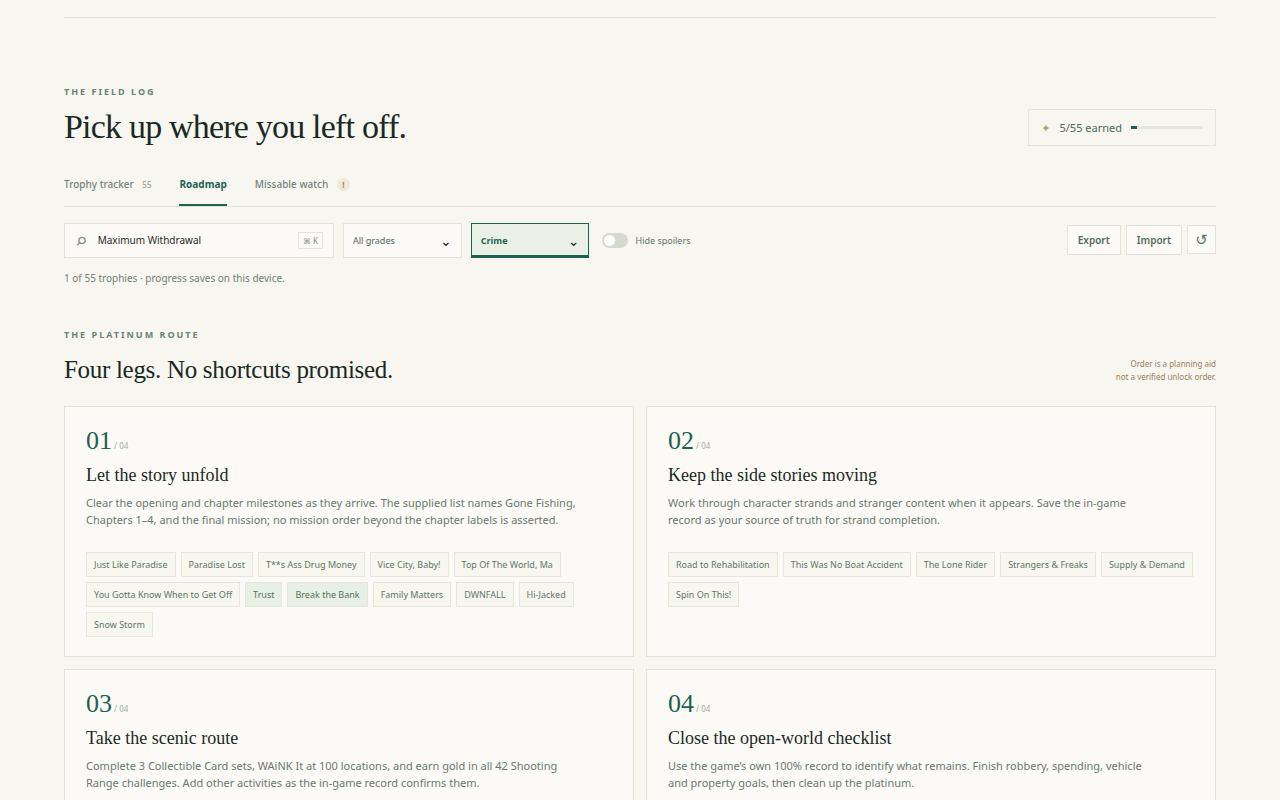
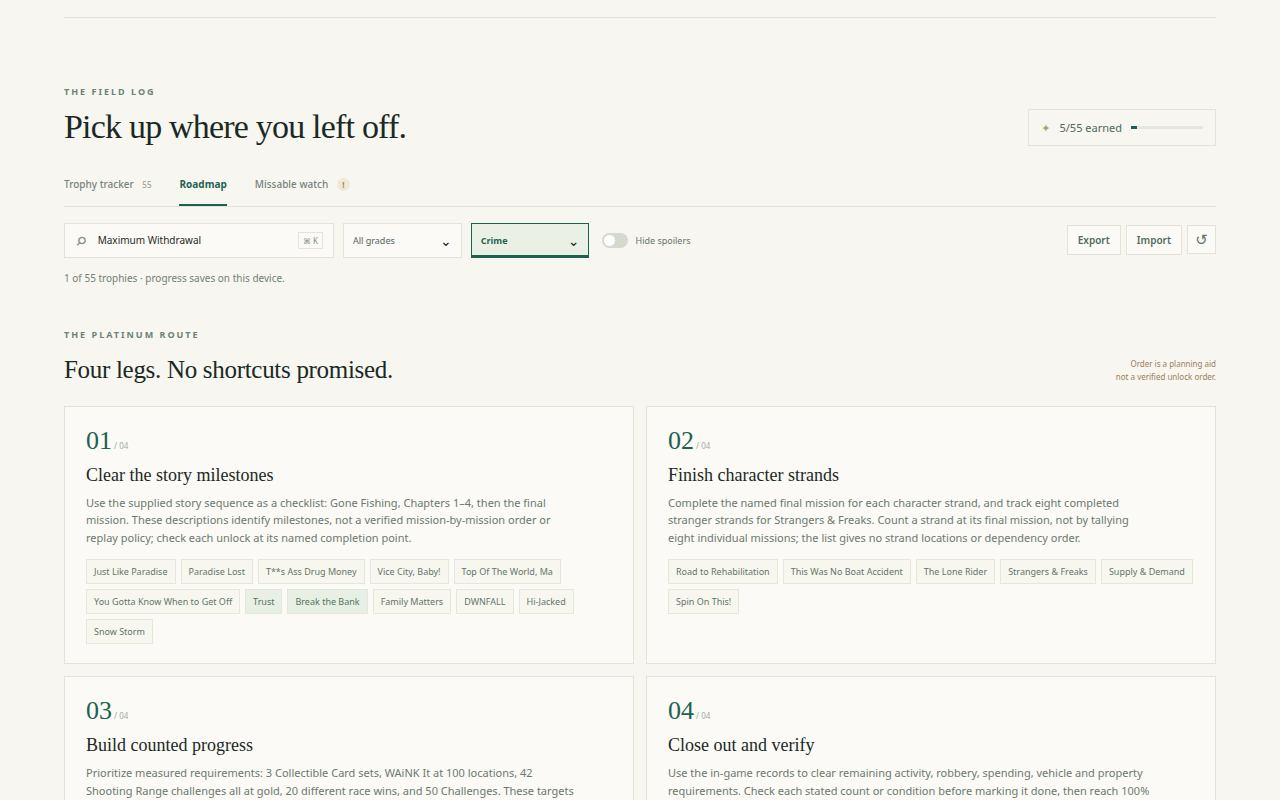
feat: strengthen round 4 trophy guidance

diff --git a/app/app.js b/app/app.js
@@ -59,7 +59,7 @@ function renderDetail() {
   if (!selected) return;
   const hidden = isConcealed(selected);
   const display = displayName(selected);
-  const sourceNames = selected.sources.map(source => source.name).join(' · ');
+  const sourceNames = selected.sources.map(source => `${source.name} — ${source.role}`).join(' · ');
   panel.innerHTML = `
     <div class="detail-top"><span class="detail-kicker">FIELD NOTE <b>NO. ${String(selected.id).padStart(2, '0')}</b></span><span class="grade-pill ${selected.grade}"><i>✦</i> ${gradeLabel(selected.grade)}</span></div>
     <h3>${escapeHtml(display)}</h3>
@@ -103,12 +103,12 @@ function toggleEarned(name) {
 
 function renderRoadmap() {
   const stages = [
-    { n: '01', title: 'Let the story unfold', text: 'Clear the opening and chapter milestones as they arrive. The supplied list names Gone Fishing, Chapters 1–4, and the final mission; no mission order beyond the chapter labels is asserted.', ids: [2,3,4,5,6,7,8,9,10,11,12,13] },
-    { n: '02', title: 'Keep the side stories moving', text: 'Work through character strands and stranger content when it appears. Save the in-game record as your source of truth for strand completion.', ids: [22,23,24,25,26,27] },
-    { n: '03', title: 'Take the scenic route', text: 'Complete 3 Collectible Card sets, WAiNK It at 100 locations, and earn gold in all 42 Shooting Range challenges. Add other activities as the in-game record confirms them.', ids: [15,16,17,18,19,20,21,28,29,30,31,32,35,42] },
-    { n: '04', title: 'Close the open-world checklist', text: 'Use the game’s own 100% record to identify what remains. Finish robbery, spending, vehicle and property goals, then clean up the platinum.', ids: [33,34,36,37,38,39,40,41,43,44,45,46,47,48,49,50,51,52,53,54,55,14,1] }
+    { n: '01', title: 'Clear the story milestones', text: 'Use the supplied story sequence as a checklist: Gone Fishing, Chapters 1–4, then the final mission. These descriptions identify milestones, not a verified mission-by-mission order or replay policy; check each unlock at its named completion point.', ids: [2,3,4,5,6,7,8,9,10,11,12,13] },
+    { n: '02', title: 'Finish character strands', text: 'Complete the named final mission for each character strand, and track eight completed stranger strands for Strangers & Freaks. Count a strand at its final mission, not by tallying eight individual missions; the list gives no strand locations or dependency order.', ids: [22,23,24,25,26,27] },
+    { n: '03', title: 'Build counted progress', text: 'Prioritize measured requirements: 3 Collectible Card sets, WAiNK It at 100 locations, 42 Shooting Range challenges all at gold, 20 different race wins, and 50 Challenges. These targets come from the supplied trophy descriptions/listed progress targets; locations, qualifying pools, and routes are not supplied.', ids: [15,16,17,18,19,20,21,28,29,30,31,32,35,42] },
+    { n: '04', title: 'Close out and verify', text: 'Use the in-game records to clear remaining activity, robbery, spending, vehicle and property requirements. Check each stated count or condition before marking it done, then reach 100% completion and use the remaining requirements for the platinum. This is a planning order, not a verified unlock sequence.', ids: [33,34,36,37,38,39,40,41,43,44,45,46,47,48,49,50,51,52,53,54,55,14,1] }
   ];
-  $('#roadmap-view').innerHTML = `<div class="roadmap-intro"><div><p class="eyebrow">THE PLATINUM ROUTE</p><h3>Four legs. No shortcuts promised.</h3></div><span class="roadmap-warning">Order is a planning aid<br>not a verified unlock order.</span></div><div class="stage-grid">${stages.map(stage => `<article class="stage-card"><div class="stage-number">${stage.n}<span> / 04</span></div><h4>${stage.title}</h4><p>${stage.text}</p><div class="stage-tags">${stage.ids.map(id => { const t = trophies.find(item => item.id === id); return `<button class="stage-tag ${earned.has(t.name) ? 'done' : ''}" data-jump="${id}">${escapeHtml(displayName(t))}</button>`; }).join('')}</div></article>`).join('')}</div><div class="roadmap-footer"><div class="roadmap-check"><strong>100% COMPLETION GOLD · A LONG ROAD</strong><span>Reach 100% completion; the supplied descriptions do not provide a complete category checklist.</span></div><div class="roadmap-check"><strong>FINAL PLATINUM CHECK · VICE GOT A PRICE!</strong><span>Use the remaining trophy requirements as the final checklist; no optimal unlock order is established.</span></div><button class="text-button" data-view="tracker">Back to tracker →</button></div>`;
+  $('#roadmap-view').innerHTML = `<div class="roadmap-intro"><div><p class="eyebrow">THE PLATINUM ROUTE</p><h3>Four legs. No shortcuts promised.</h3></div><span class="roadmap-warning">Order is a planning aid<br>not a verified unlock order.</span></div><div class="stage-grid">${stages.map(stage => `<article class="stage-card"><div class="stage-number">${stage.n}<span> / 04</span></div><h4>${stage.title}</h4><p>${stage.text}</p><div class="stage-tags">${stage.ids.map(id => { const t = trophies.find(item => item.id === id); return `<button class="stage-tag ${earned.has(t.name) ? 'done' : ''}" data-jump="${id}">${escapeHtml(displayName(t))}</button>`; }).join('')}</div></article>`).join('')}</div><div class="roadmap-footer"><div class="roadmap-check"><strong>100% COMPLETION GOLD · A LONG ROAD</strong><span>Reach 100% completion; Exophase and PSNProfiles provide the target description, but no category breakdown.</span></div><div class="roadmap-check"><strong>FINAL PLATINUM CHECK · VICE GOT A PRICE!</strong><span>Use the remaining trophy requirements as the final checklist; the supplied lists do not establish an optimal unlock order.</span></div><button class="text-button" data-view="tracker">Back to tracker →</button></div>`;
   $('#roadmap-view').querySelectorAll('[data-jump]').forEach(button => button.addEventListener('click', () => selectTrophy(Number(button.dataset.jump))));
   $('#roadmap-view').querySelector('[data-view="tracker"]').addEventListener('click', () => setView('tracker'));
 }

diff --git a/docs/superpowers/plans/2026-11-20-gta6-tracker-roadmap.md b/docs/superpowers/plans/2026-11-20-gta6-tracker-roadmap.md
@@ -66,6 +66,14 @@
 
 **Files:** all changes above
 
-- [x] Run `makefun check` and require 5 passed, 0 failed.
+- [ ] Run `makefun check` (not run: round rules prohibit it).
 - [x] Check 55 trophies, grades 1/2/6/46, 28 hidden, sources on 55/55, no `http`/`https` references in `app/`, and byte-identical dossier rebuild.
-- [x] Commit all changes in one commit authored as `makefun-agent` and report its hash and check result.
+- [ ] Commit all changes in one commit authored as `makefun-agent` and report its hash and check result.
+
+## Round 4 Evidence Update
+
+- Keep location-specific routes, eligible pools, character rosters, and mission dependencies unclaimed: the available Exophase/PSNProfiles entries establish trophy text, grades, and selected progress targets, not an independently sourced walkthrough.
+- Strengthen count- and condition-based guidance from the supplied list: 250 Stunts, 42 gold Shooting Range challenges, every Top Fun Drone Race location, 20 distinct race wins, 8 stranger strands, every meditation spot, 3 card sets, WAiNK It at 100 locations, 50 Challenges, the three-shop chain, 100 vehicle discoveries, five takedowns in one Combat Focus use, undetected jewelry-store robbery, five Bank Vault robberies with escapes, an Illegal Operation for each gang, $250,000 laundering, $100,000 shop spending, all garage properties, and 10 Scooter Bros registrations.
+- Keep every `missableStatus` `unverified`; separate a cautious Check prompt from Confirmed, which remains empty without evidence of a one-time window.
+- Show the listed source and its role beside the open guide. Roadmap text marks the sourced counts and character-strand unit while identifying the four legs as a planning aid, not a verified unlock order.
+- Re-run browser coverage for concealed-name/description search and display, saved progress after reload, progress export/import, the 55-row baseline, three distinct Watch states, sourced guide rendering, roadmap milestones, zero non-local requests and zero page errors; regenerate all four captures and inspect their size/dimensions.
